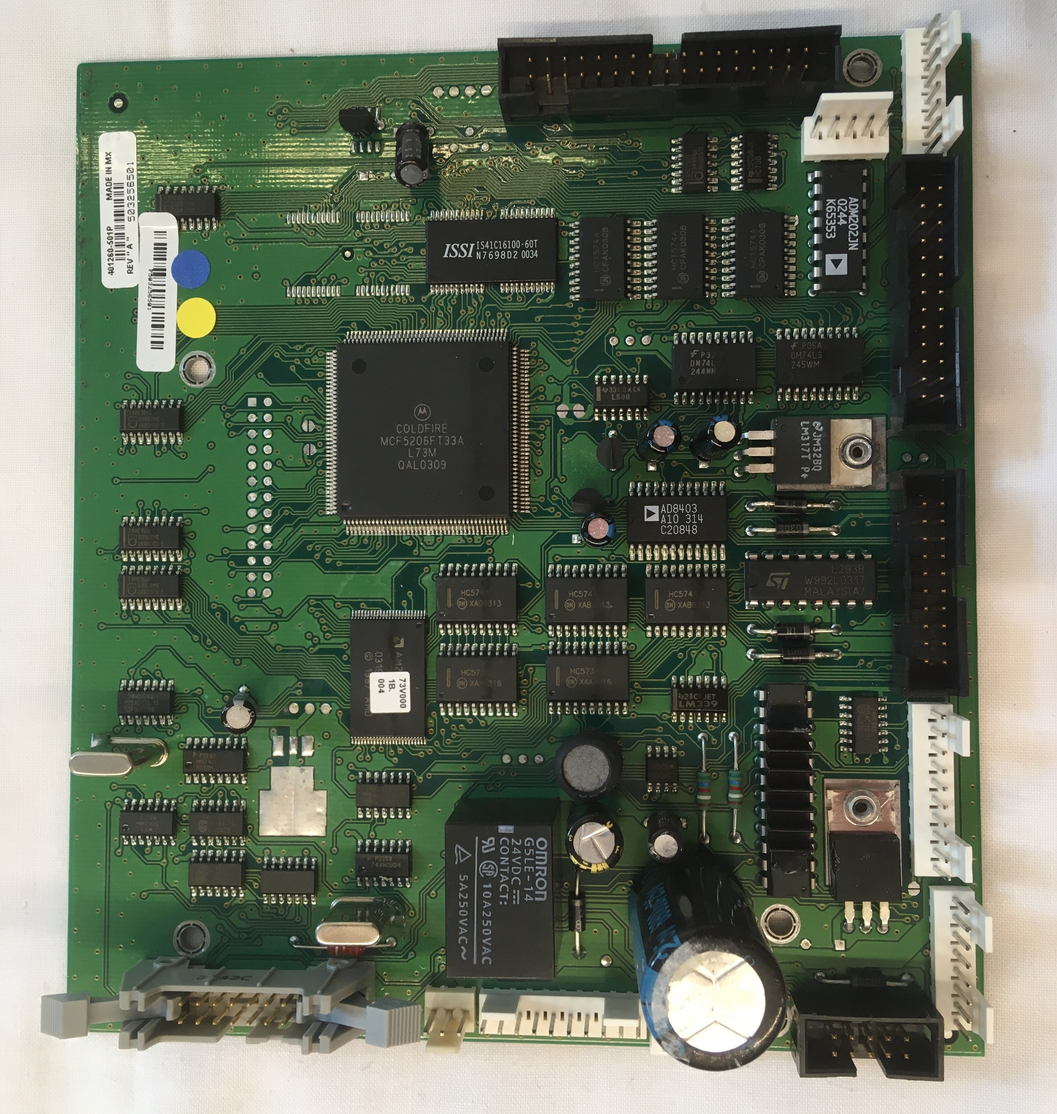
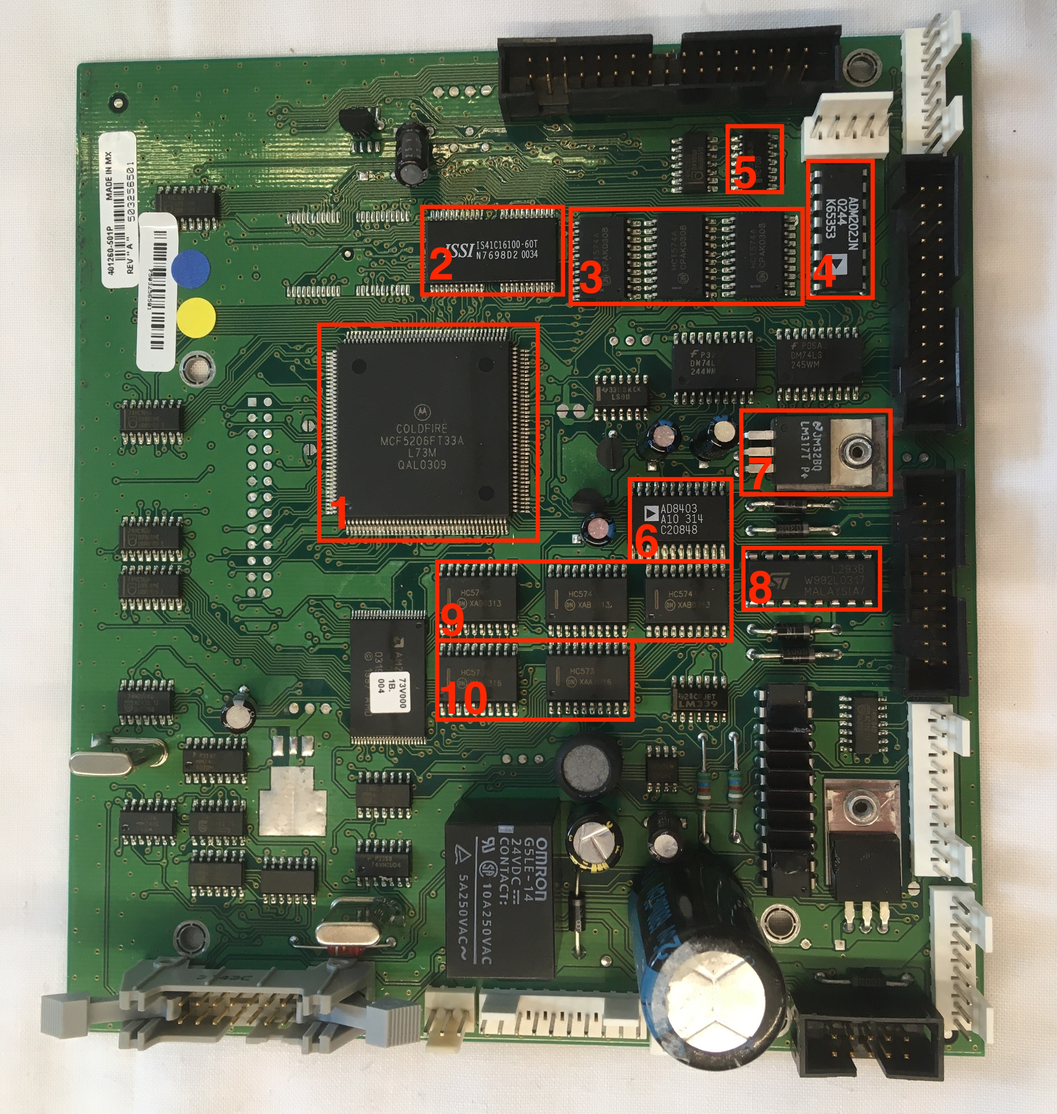
added some PCB label boxes

diff --git a/teardowns/IDprinter.html b/teardowns/IDprinter.html
@@ -65,6 +65,7 @@
 <hr>
 <section>
 	<h3>Main PCBs</h3>
+	<p>&emsp;&emsp;The wires leading off from the status indicator PCB are connected to a large control PCB mounted in the back of the printer.</p>
 	<img src="../images/teardowns/IDprinter/PCBstorageExploded.jpg" alt="Two Large Green PCBs Mounted On Metal Backing" class="center">
 	<p class="label">PCB Storage Under Printer Cover</p>
 	<img src="../images/teardowns/IDprinter/PCBsexploded.jpg" alt="Main and Power PCBs Disassembled from Printer Body" class="center">
@@ -72,6 +73,47 @@
 
 	<img src="../images/teardowns/IDprinter/mainPCBfront.jpg" alt="Large Green PCB with Many ICs and Wire Connector Slots" class="center">
 	<p class="label">Main PCB - Top View</p>
+	<ol type = "1">
+		<li><p>Coldfire MCF5206 Microprocessor (<a href="https://www.nxp.com/docs/en/data-sheet/MCF5206UM.pdf">datasheet</a>)</p>
+			<p>&emsp;&emsp;Trying to make sense of the over 400 page long datasheet was overwhelming and more than I was willing to slog through, but it provided some basic information of note. The microprocessor has 160 pins including a clock input, i2C compatible Motoral Bus (M-Bus) clock and data pins, two pairs of DUART transferring and receiving pins, interrupt control pins, timer in and out pins, chip select pins, and general purpose input/output (GPIO) pins. Computational information is stored on board in the form of cache and SRAM (static random access memory), and can also be stored off board in the form of DRAM (dynamic random access memory). Given all these capabilities, this part maybe would be more aptly named a microcontroller instead of a microprocessor.</p>
+		</li>
+		<br>
+		<li><p>ISSI IS41C16100 DRAM (<a href="https://pdf1.alldatasheet.com/datasheet-pdf/view/96737/ISSI/IS41C16100-60T.html">datasheet</a>)</p>
+			<p>&emsp;&emsp;The DRAM can contain 16 MBIT (2MB) of information with an accelerated processor cycle access method called EDO Page Mode. Memory access time is an important parameter for memory units such as this one as accessing information from memory takes much longer (more processor cycles) than running tasks on the processor.</p>
+		</li>
+		<br>
+		<li><p>ON Semiconductor HCT574A Octal Shift Registers (<a href="https://www.onsemi.com/pdf/datasheet/mc74hct574a-d.pdf">datasheet</a>)</p>
+			<p>&emsp;&emsp;The three shift registers&mdash;each composed of a series of 8 D-Type Flip-Flops&mdash;can feed a captured value down the cascade of Flip-Flop circuits following a clock signal. The shift registers are potentially used to expand the capability of the GPIO pins on the microprocessor to a number of devices greater than the number of GPIO pins. The shift registers make this possible by carrying in a set of digital (i.e. binary) signals in series to then be read by multiple devices in parallel on different Flip-Flop circuits of the shift register and vice versa when the devices are writing signals to the microprocessor.</p>
+		</li>
+		<br>
+		<li><p>Analog Devices ADM202 CMOS Driver/Receiver (<a href="https://www.mouser.com/datasheet/2/609/ADM202-1503026.pdf">datasheet</a>)</p>
+			<p>&emsp;&emsp;The CMOS driver/receiver can transform a 5V input to a +/-10V output using a switching power supply type circuit.</p>
+		</li>
+		<br>
+		<li><p>Texas Instruments HCT00 Quadruple NAND Gate (<a href="https://www.digchip.com/datasheets/parts/datasheet/477/HCT00-pdf.php">datasheet</a>)</p>
+			<p>&emsp;&emsp;The quadruple NAND gate unit contains four two-input, positive NAND gates presumably using diode logic setups to produce the NAND logic condition.</p>
+		</li>
+		<br>
+		<li><p>Analog Devices AD8403 Digital Potentiometer (<a href="https://www.analog.com/media/en/technical-documentation/data-sheets/AD8400_8402_8403.pdf">datasheet</a>)</p>
+			<p>&emsp;&emsp;The digital potentiometer contains four independent, 256-position, digitally controlled variable resistors.</p>
+		</li>
+		<br>
+		<li><p>ST Microelectronics LM317 Adjustable Voltage Regulator (<a href="https://www.mouser.com/datasheet/2/389/cd00000455-1795522.pdf">datasheet</a>)</p>
+			<p>&emsp;&emsp;The adjustable voltage regulator can be used to produce output voltages between 1.2V and 37V when controlled using a variable resistor, possibly the function of the nearby digital potentiometer.</p>
+		</li>
+		<br>
+		<li><p>ST Microelectronics L293B Push-Pull Four Channel Driver (<a href="https://www.mouser.com/datasheet/2/389/cd00000058-1795356.pdf">datasheet</a>)</p>
+			<p>&emsp;&emsp;The primary function of a driver is to control a high power (high voltage and high current) supply using low power logic signals. "Push-Pull" indicates that a push-pull amplifer circuit is included in this component to raise the output current so that the driver can output high power. The functionality of the push-pull and driver circuits are founded in transistors. For example, one transistor alone could be used as a driver by opening and closing a high power line in response to a control signal. A typical application of a driver is to control motors&mdash;a high power application&mdash;using logic signals coming from a low power microcontroller or some such device. It just so happens that there are exactly four motors in this ID printer. This would lead me to believe that this four channel driver is responsible for driving those four motors.</p>
+		</li>
+		<br>
+		<li><p>ON Semiconductor HC574 Octal Shift Registers (<a href="https://www.onsemi.com/pdf/datasheet/74vhc574-d.pdf">datasheet</a>)</p>
+		</li>
+		<br>
+		<li><p>ON Semiconductor HC573 Octal Transparent Latch(<a href="https://www.onsemi.com/pdf/datasheet/mc74hc573a-d.pdf">datasheet</a>)</p>
+		</li>
+	</ol>
+	<br>
+	<p>&emsp;&emsp;There are some other ICs for which I couldn't read the labels and there are lots of other components on the board like diodes, electrolytica capacitors, and connectors. Many of the ICs are dated using a similar scheme year-week scheme. For example, 0309 at the end of the microprocessor label to indicate the 9th work week of 2003 or the 0308 at the end of the HCT574A components to indicate the 8th week of 2003. Most devices on the board are also made to operate around 5V.</p>
 	<img src="../images/teardowns/IDprinter/mainPCBback.jpg" alt="Many SMT components and One Red Wire Linking Components Across Board" class="center">
 	<p class="label">Main PCB - Bottom View</p>
 	<img src="../images/teardowns/IDprinter/mainPCBcap.jpg" alt="25V 6800uF Electrolytic Capacitor" class="center">
